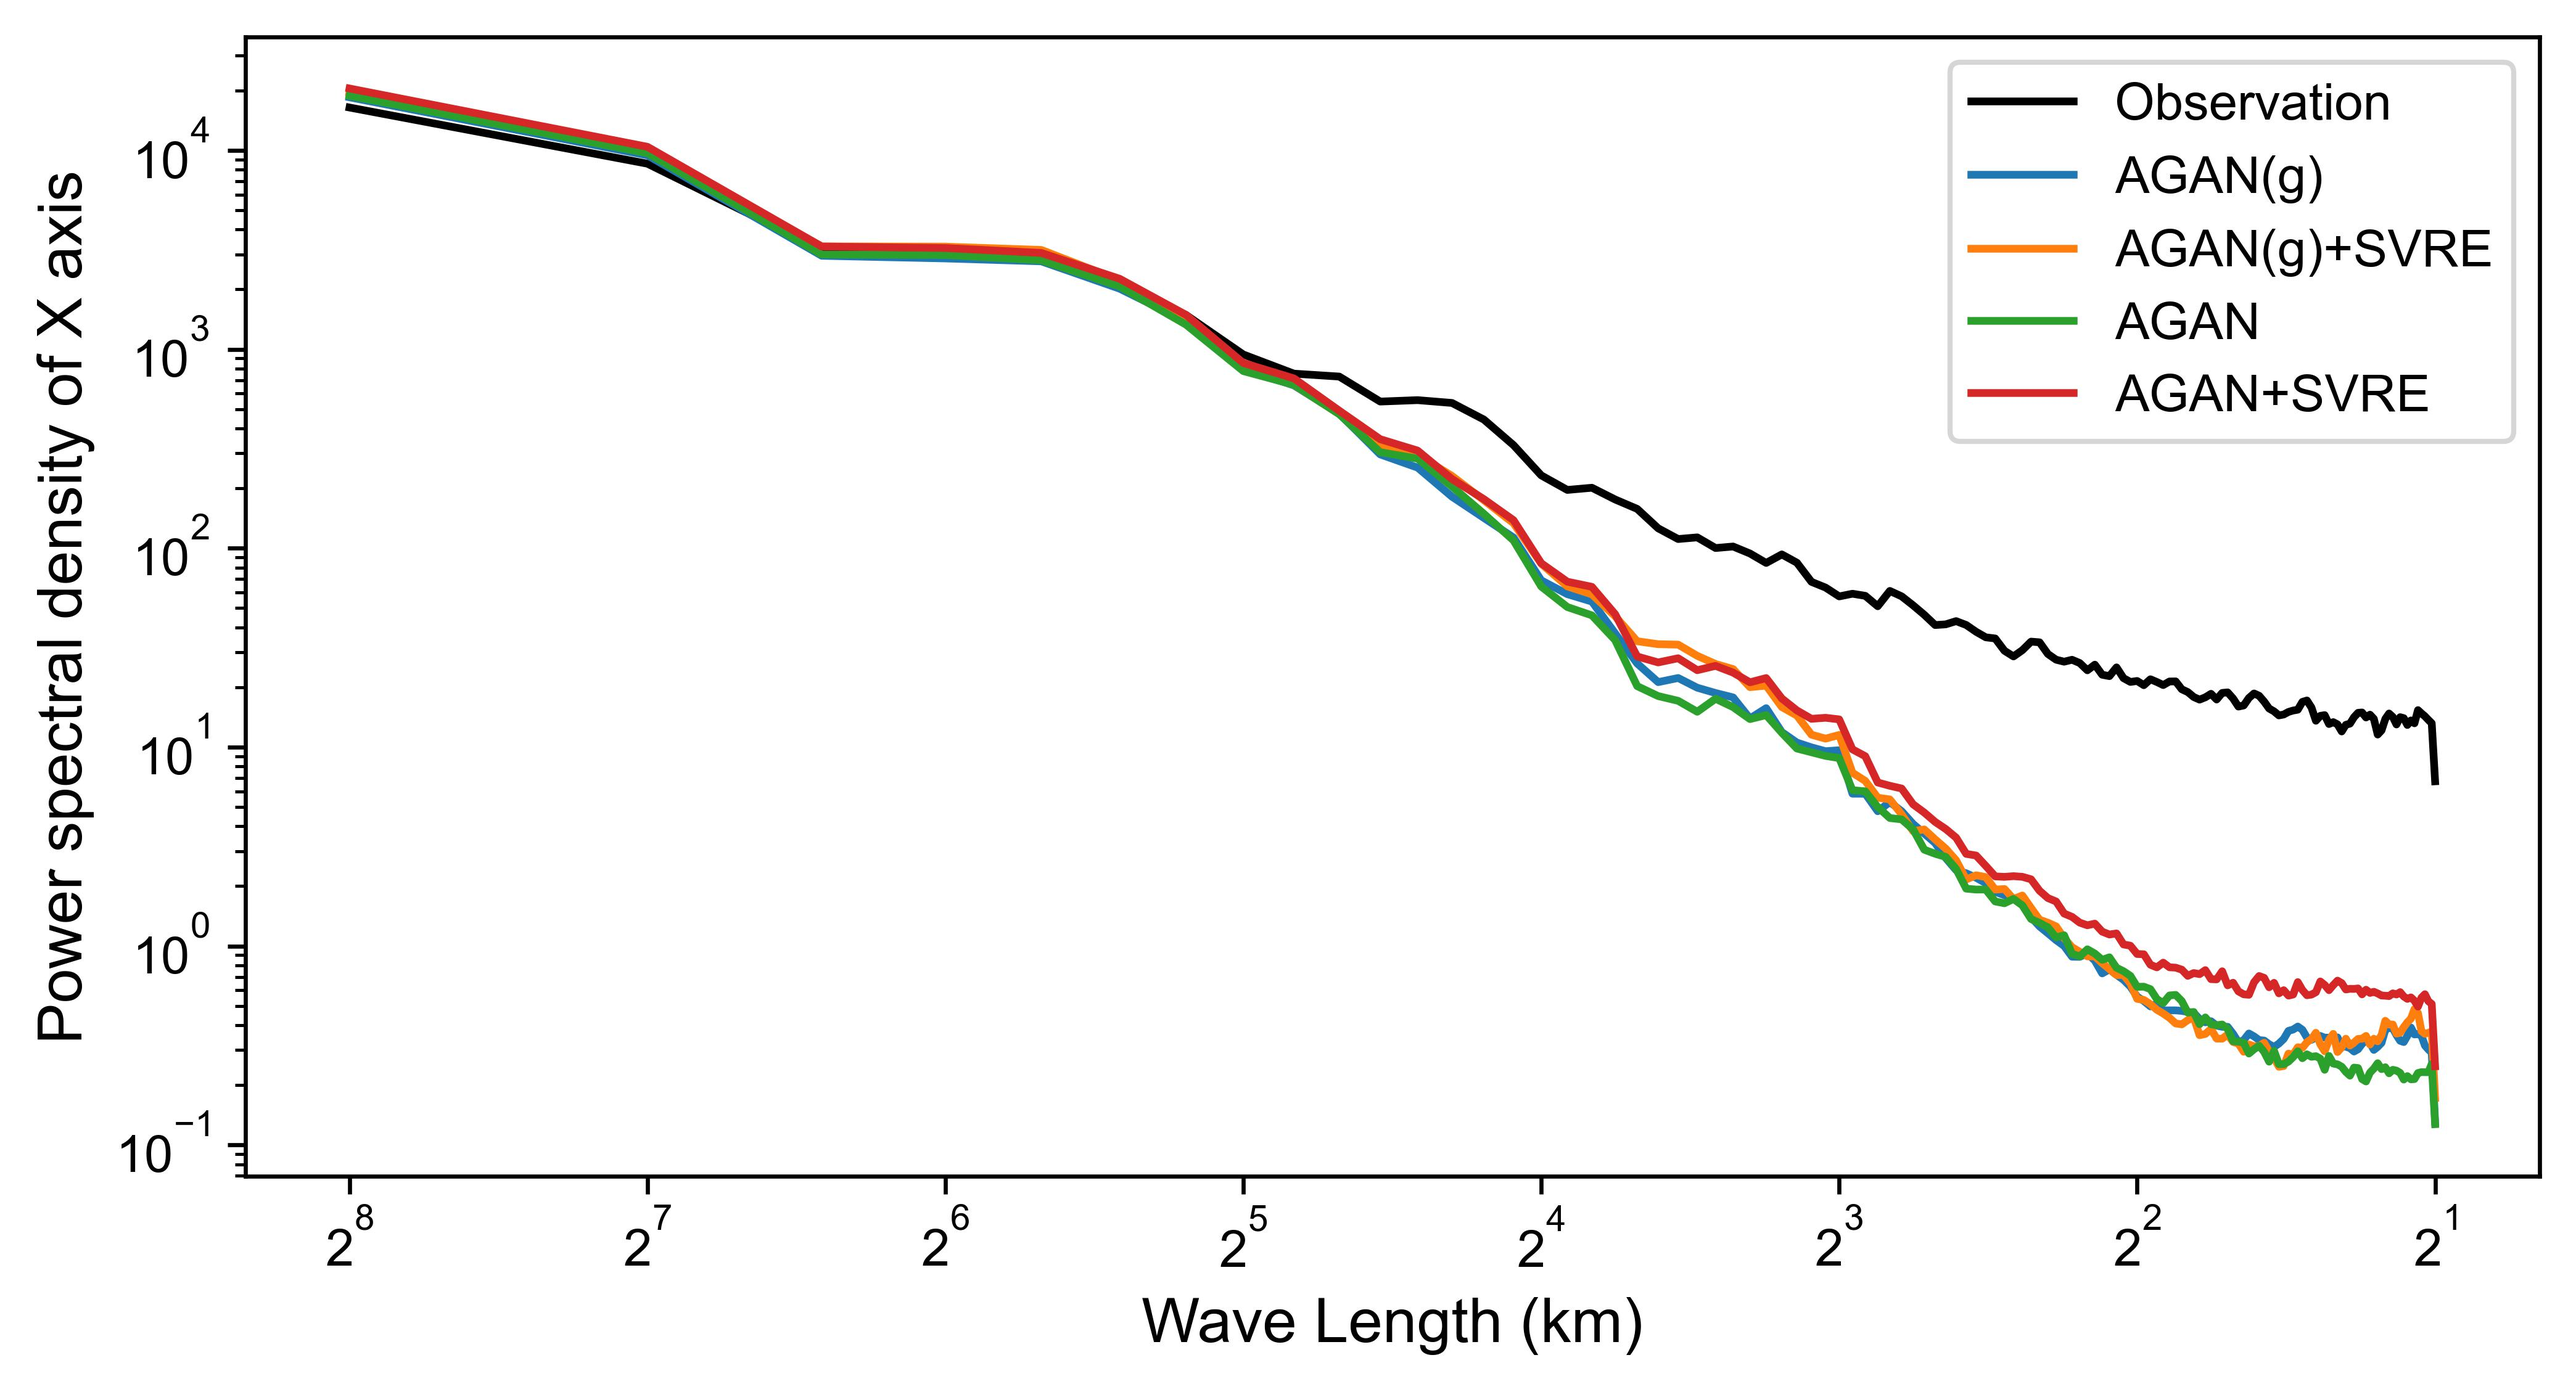
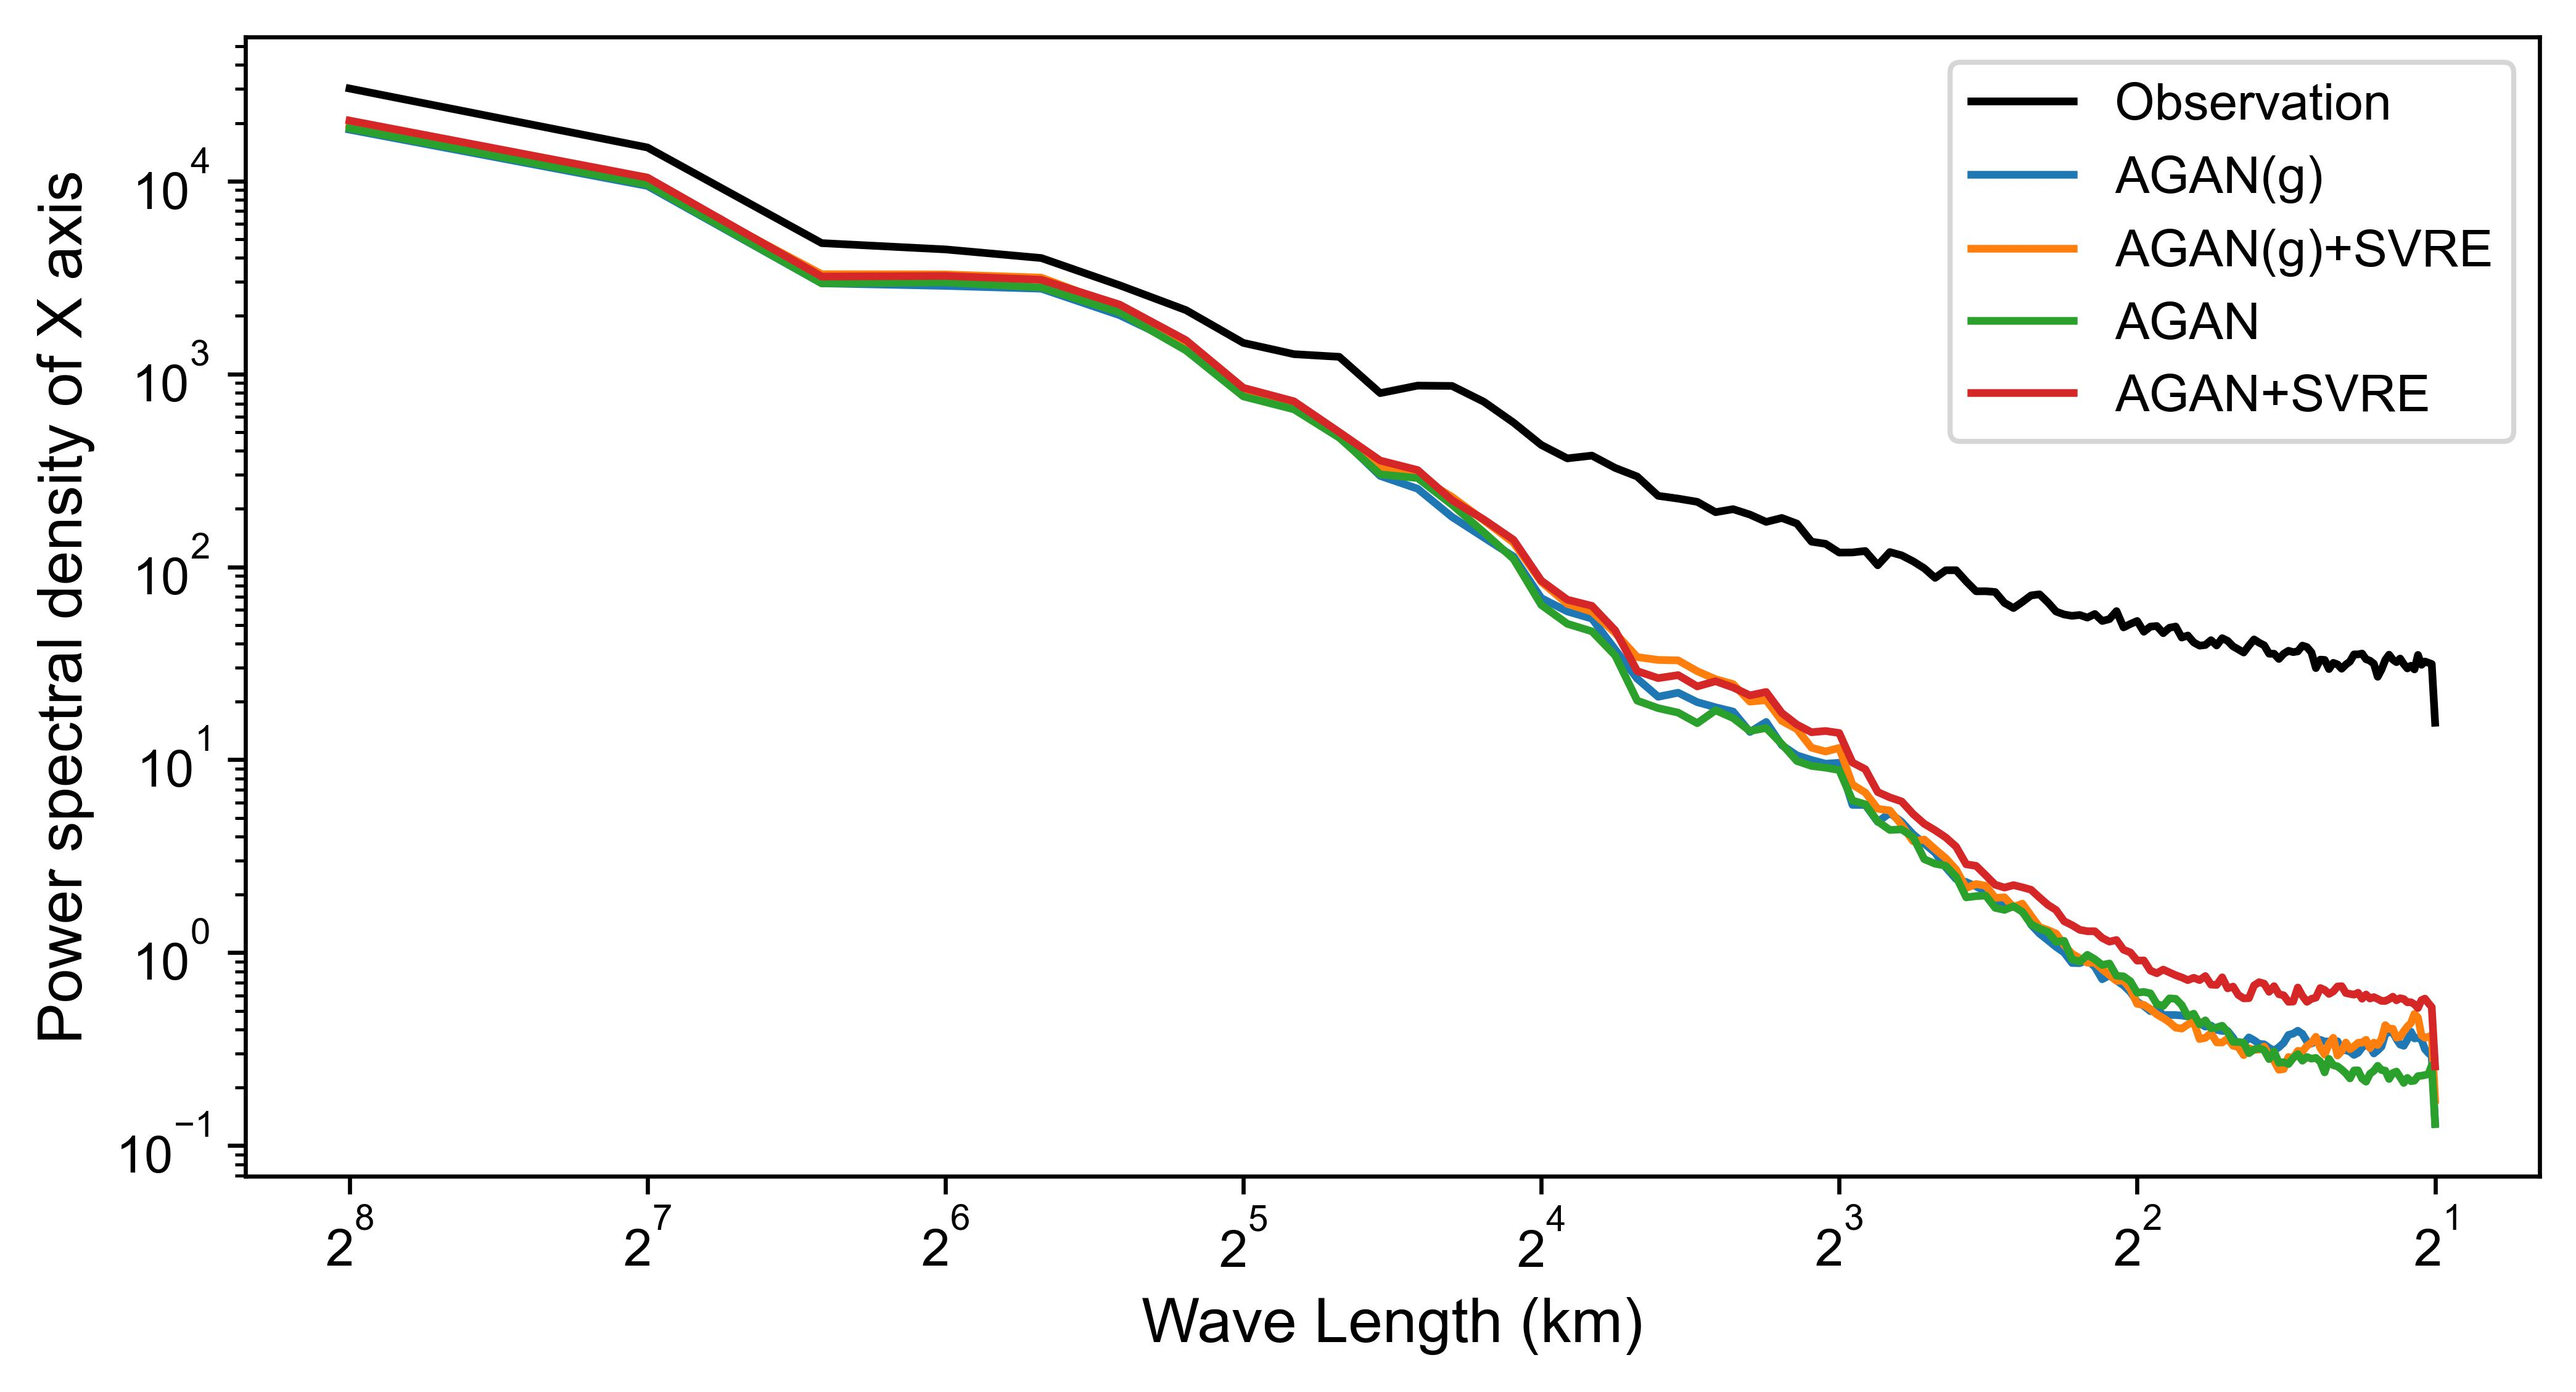
Update PSD plot

diff --git a/analysis/plot_figs.py b/analysis/plot_figs.py
@@ -174,16 +174,12 @@ def plot_psd(model_names, model_dirs, stage, img_path_1, img_path_2):
     print('{} saved'.format(img_path_2))
 
 
-def plot_ablation(model_names, model_dirs):
-    plot_maps(model_names, model_dirs, 'sample_0', 'img/vis_ablation_sample_0.jpg')
-    plot_maps(model_names, model_dirs, 'sample_1', 'img/vis_ablation_sample_1.jpg')
+def plot_psd_ablation(model_names, model_dirs):
     plot_psd(model_names, model_dirs, 'sample_0', 'img/psd_ablation_sample_0_x.jpg', 'img/psd_ablation_sample_0_y.jpg')
     plot_psd(model_names, model_dirs, 'sample_1', 'img/psd_ablation_sample_1_x.jpg', 'img/psd_ablation_sample_1_y.jpg')
 
 
-def plot_comparison(model_names, model_dirs):
-    plot_maps(model_names, model_dirs, 'sample_0', 'img/vis_comparison_sample_0.jpg')
-    plot_maps(model_names, model_dirs, 'sample_1', 'img/vis_comparison_sample_1.jpg')
+def plot_psd_comparison(model_names, model_dirs):
     plot_psd(model_names, model_dirs, 'sample_0', 'img/psd_comparison_sample_0_x.jpg', 'img/psd_comparison_sample_0_y.jpg')
     plot_psd(model_names, model_dirs, 'sample_1', 'img/psd_comparison_sample_1_x.jpg', 'img/psd_comparison_sample_1_y.jpg')
 
@@ -194,9 +190,9 @@ def plot_all(model_names, model_dirs):
 
 
 if __name__ == '__main__':
-    plot_ablation(['AGAN(g)', 'AGAN(g)+SVRE', 'AGAN', 'AGAN+SVRE'], ['results/AttnUNet',
+    plot_psd_ablation(['AGAN(g)', 'AGAN(g)+SVRE', 'AGAN', 'AGAN+SVRE'], ['results/AttnUNet',
                   'results/AttnUNet_SVRE', 'results/AttnUNet_GA', 'results/AttnUNet_GASVRE'])
-    plot_comparison(['PySTEPS', 'SmaAt-UNet', 'MotionRNN', 'AGAN+SVRE'], ['results/PySTEPS',
+    plot_psd_comparison(['PySTEPS', 'SmaAt-UNet', 'MotionRNN', 'AGAN+SVRE'], ['results/PySTEPS',
                     'results/SmaAt_UNet', 'results/MotionRNN', 'results/AttnUNet_GASVRE'])
     plot_all(['PySTEPS', 'SmaAt-UNet', 'MotionRNN', 'AGAN(g)', 'AGAN(g)+SVRE', 'AGAN', 'AGAN+SVRE'], 
              ['results/PySTEPS', 'results/SmaAt_UNet', 'results/MotionRNN', 'results/AttnUNet',
